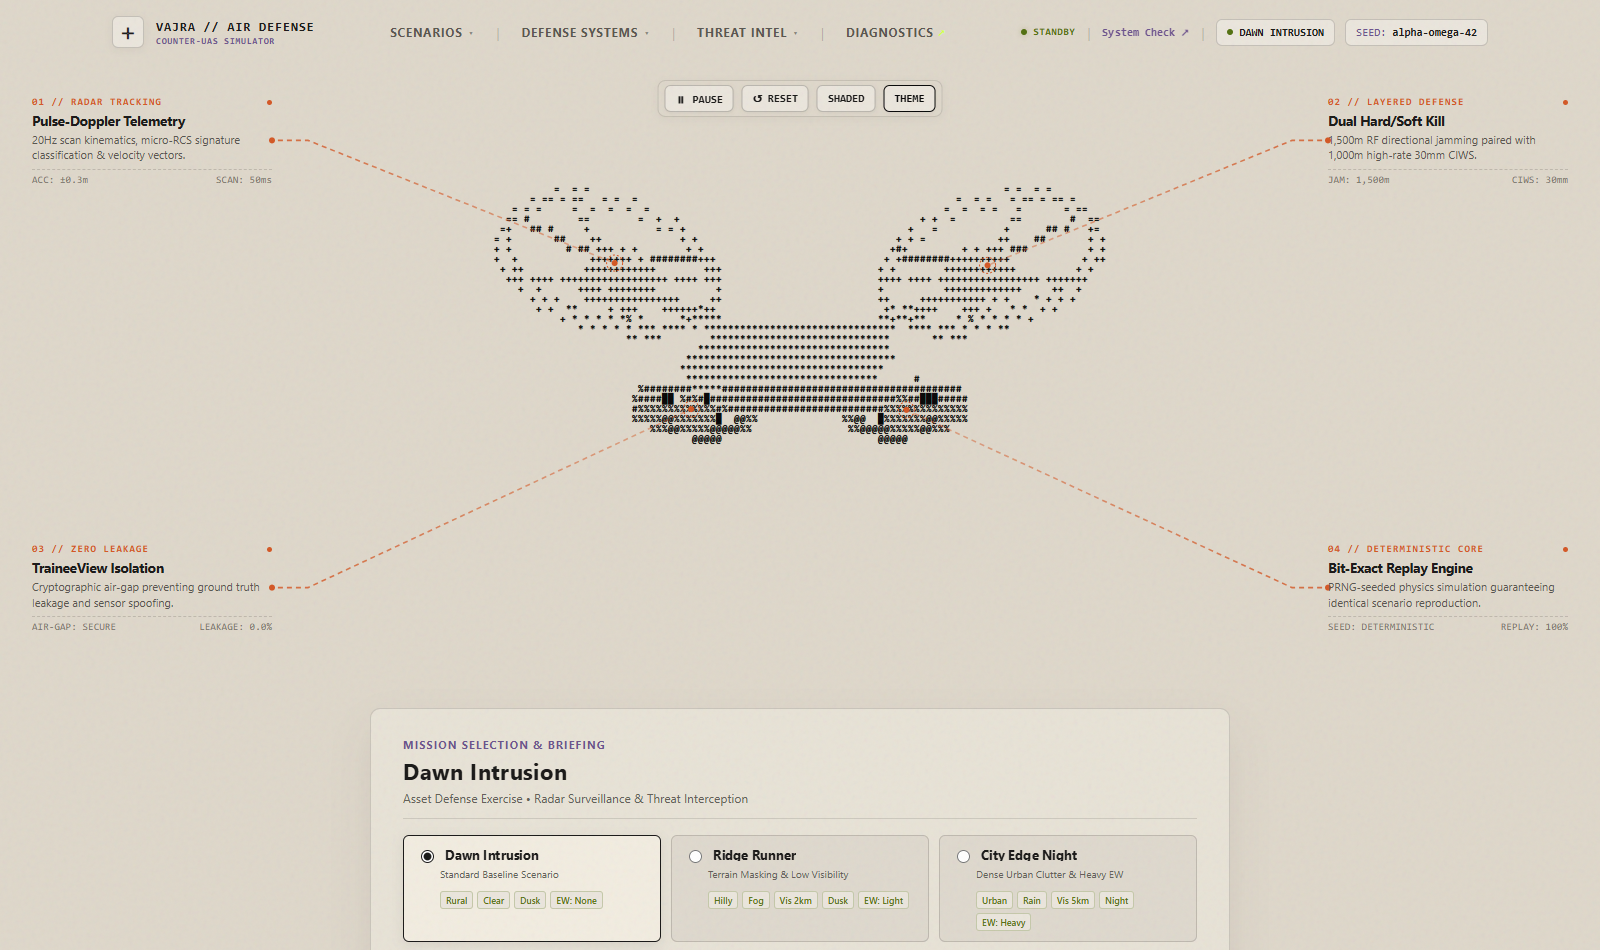
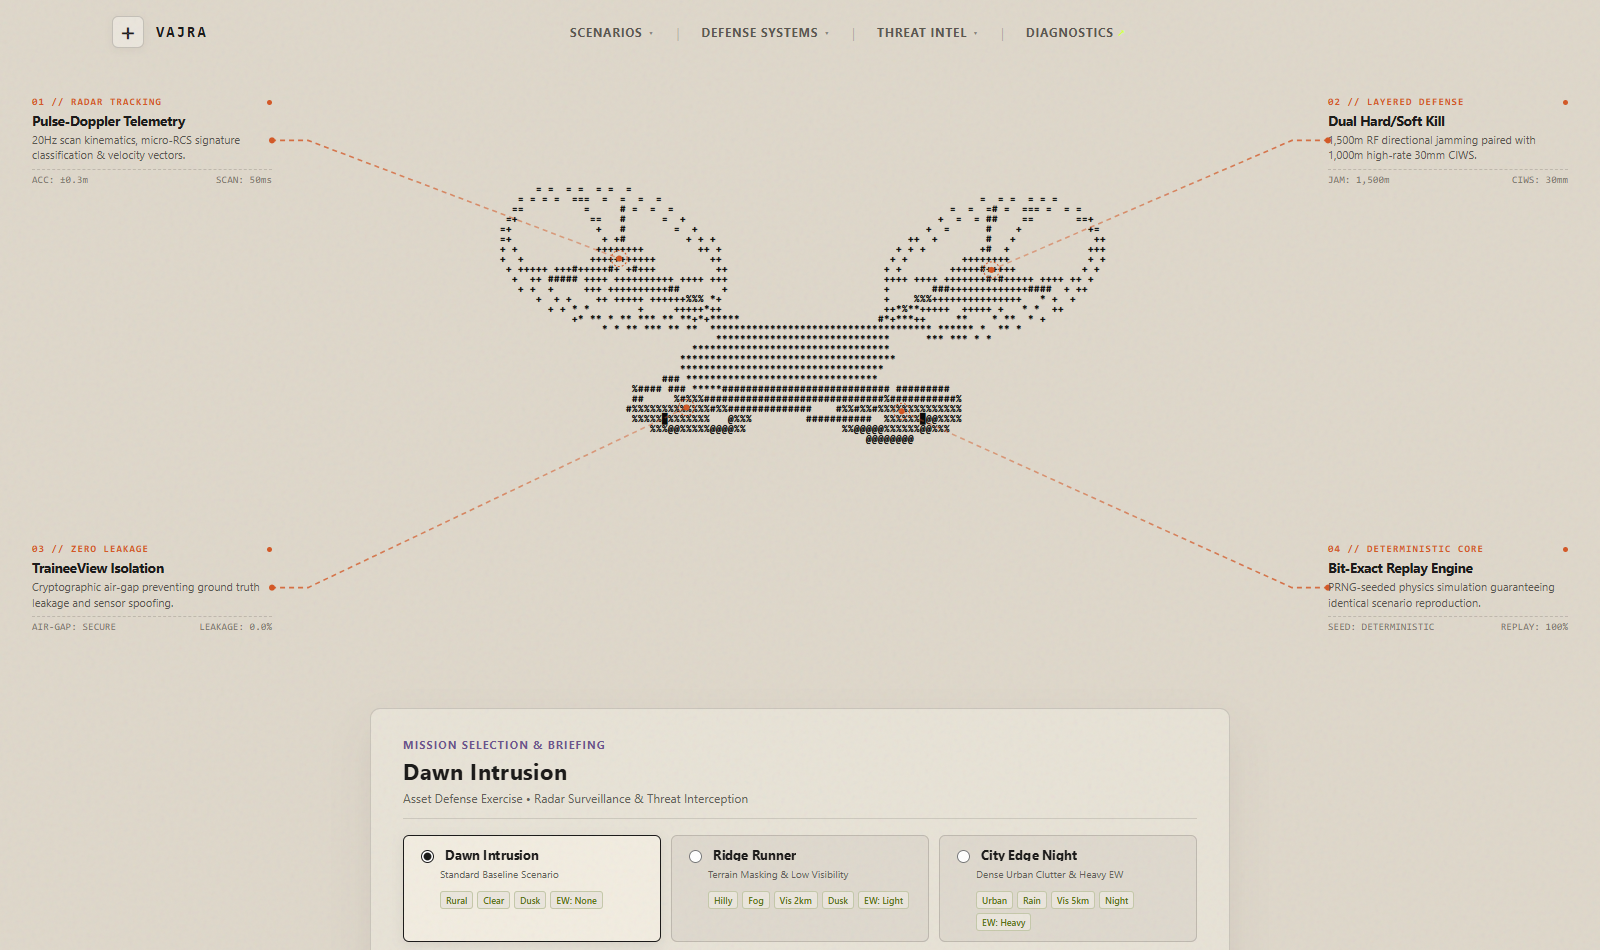
feat(clean): remove drone buttons, remove navbar right setup cluster, simplify brand to VAJRA

diff --git a/src/app/components/DroneAsciiSimulation.tsx b/src/app/components/DroneAsciiSimulation.tsx
@@ -173,9 +173,9 @@ export function DroneAsciiSimulation({
   const card4Ref = useRef<HTMLDivElement | null>(null);
 
   const [asciiText, setAsciiText] = useState<string>('');
-  const [isRotating, setIsRotating] = useState<boolean>(autoRotate);
-  const [activeColor, setActiveColor] = useState<string>(color);
-  const [wireframeOnly, setWireframeOnly] = useState<boolean>(false);
+  const isRotating = autoRotate;
+  const activeColor = color;
+  const wireframeOnly = false;
 
   // SVG HUD Leader Line direct DOM refs for 60fps synchronous tracking without React re-renders
   const lineTlRef = useRef<SVGPathElement | null>(null);
@@ -236,10 +236,6 @@ export function DroneAsciiSimulation({
 
   const handleMouseUp = () => {
     isDraggingRef.current = false;
-  };
-
-  const resetOrientation = () => {
-    anglesRef.current = { yaw: 0.5, pitch: 0.62, roll: 0.0 };
   };
 
   // Recompute layout bounds when window resizes or component mounts
@@ -559,114 +555,6 @@ export function DroneAsciiSimulation({
         ...style,
       }}
     >
-      {/* Centered Top Floating Controls Bar */}
-      <div
-        style={{
-          position: 'absolute',
-          top: '16px',
-          left: '50%',
-          transform: 'translateX(-50%)',
-          display: 'flex',
-          gap: '8px',
-          zIndex: 10,
-          backgroundColor: 'rgba(222, 215, 202, 0.85)',
-          backdropFilter: 'blur(8px)',
-          WebkitBackdropFilter: 'blur(8px)',
-          padding: '4px 6px',
-          borderRadius: '8px',
-          border: '1px solid rgba(45, 40, 35, 0.14)',
-          boxShadow: '0 2px 8px rgba(0, 0, 0, 0.04)',
-        }}
-      >
-        <button
-          onClick={() => setIsRotating((prev) => !prev)}
-          title="Toggle Auto-Rotation"
-          style={{
-            backgroundColor: '#eae5dc',
-            border: '1px solid rgba(45, 40, 35, 0.25)',
-            color: isRotating ? '#181716' : '#78746c',
-            borderRadius: '6px',
-            padding: '5px 10px',
-            fontSize: '11px',
-            fontFamily: 'monospace',
-            fontWeight: 700,
-            cursor: 'pointer',
-            boxShadow: '0 1px 4px rgba(0, 0, 0, 0.05)',
-          }}
-        >
-          {isRotating ? '⏸ PAUSE' : '▶ ROTATE'}
-        </button>
-
-        <button
-          onClick={resetOrientation}
-          title="Reset Orientation"
-          style={{
-            backgroundColor: '#eae5dc',
-            border: '1px solid rgba(45, 40, 35, 0.25)',
-            color: '#181716',
-            borderRadius: '6px',
-            padding: '5px 10px',
-            fontSize: '11px',
-            fontFamily: 'monospace',
-            fontWeight: 700,
-            cursor: 'pointer',
-            boxShadow: '0 1px 4px rgba(0, 0, 0, 0.05)',
-          }}
-        >
-          ↺ RESET
-        </button>
-
-        <button
-          onClick={() => setWireframeOnly((prev) => !prev)}
-          title="Toggle ASCII Density"
-          style={{
-            backgroundColor: '#eae5dc',
-            border: '1px solid rgba(45, 40, 35, 0.25)',
-            color: wireframeOnly ? '#8e5b5d' : '#181716',
-            borderRadius: '6px',
-            padding: '5px 10px',
-            fontSize: '11px',
-            fontFamily: 'monospace',
-            fontWeight: 700,
-            cursor: 'pointer',
-            boxShadow: '0 1px 4px rgba(0, 0, 0, 0.05)',
-          }}
-        >
-          {wireframeOnly ? 'WIREFRAME' : 'SHADED'}
-        </button>
-
-        <button
-          onClick={() => {
-            const nextColor =
-              activeColor === '#050505'
-                ? '#381417' // Deep Dark Terracotta Ink
-                : activeColor === '#381417'
-                  ? '#0d1829' // Deep Tactical Navy Ink
-                  : activeColor === '#0d1829'
-                    ? '#241030' // Deep Obsidian Plum Ink
-                    : activeColor === '#241030'
-                      ? '#10240e' // Deep Tactical Olive Ink
-                      : '#050505';
-            setActiveColor(nextColor);
-          }}
-          title="Switch Color Theme"
-          style={{
-            backgroundColor: '#eae5dc',
-            border: `1.5px solid ${activeColor}`,
-            color: activeColor,
-            borderRadius: '6px',
-            padding: '5px 10px',
-            fontSize: '11px',
-            fontFamily: 'monospace',
-            fontWeight: 800,
-            cursor: 'pointer',
-            boxShadow: '0 1px 4px rgba(0, 0, 0, 0.05)',
-          }}
-        >
-          THEME
-        </button>
-      </div>
-
       {/* SVG Tactical HUD Overlay with Animated Leader Lines & Targeting Reticles */}
       <svg
         ref={svgRef}

diff --git a/src/app/console/TopBar.tsx b/src/app/console/TopBar.tsx
@@ -274,8 +274,7 @@ export function TopBar({
               <span style={styles.brandCrosshair}>✛</span>
             </div>
             <div style={styles.brandTextCol}>
-              <span style={styles.brandName}>VAJRA // AIR DEFENSE</span>
-              <span style={styles.brandTagline}>COUNTER-UAS SIMULATOR</span>
+              <span style={styles.brandName}>VAJRA</span>
             </div>
           </a>
         </div>
@@ -626,32 +625,7 @@ export function TopBar({
 
         {/* Right: Contextual Telemetry & Controls */}
         <div style={styles.navRight}>
-          {phase === 'setup' ? (
-            <div style={styles.setupActionCluster}>
-              <div style={styles.statusPulse}>
-                <span style={styles.pulseDot} />
-                <span style={styles.pulseText}>STANDBY</span>
-              </div>
-
-              <span style={styles.navDivider}>|</span>
-
-              <a href="#/check" style={styles.sysCheckLink}>
-                <TextRoll stagger={0.02}>System Check ↗</TextRoll>
-              </a>
-
-              <span style={styles.navDivider}>|</span>
-
-              <div style={styles.scenarioActiveChip} title="Current Scenario Selection">
-                <span style={styles.chipDot} />
-                <span style={styles.chipText}>{scTitle}</span>
-              </div>
-
-              <div style={styles.seedDisplayPill} title="Deterministic Pseudo-Random Seed">
-                <span style={styles.seedLabelText}>SEED:</span>
-                <span style={styles.seedValueText}>{seed}</span>
-              </div>
-            </div>
-          ) : (
+          {phase === 'setup' ? null : (
             <div style={styles.runningActionCluster}>
               {/* Mission Scenario and Environment */}
               <div style={styles.missionTitle}>
@@ -821,9 +795,9 @@ const styles: Record<string, React.CSSProperties> = {
   },
   brandName: {
     color: '#181716',
-    fontSize: '13px',
-    fontWeight: 800,
-    letterSpacing: '0.06em',
+    fontSize: '15px',
+    fontWeight: 900,
+    letterSpacing: '0.14em',
     fontFamily: 'monospace',
   },
   brandTagline: {
